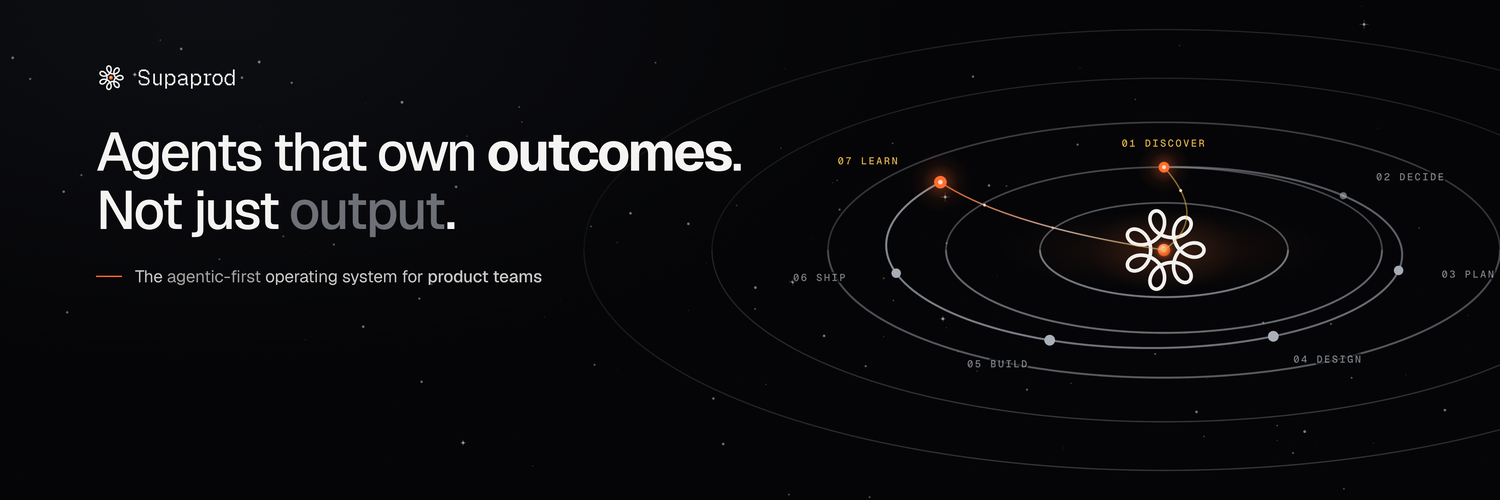
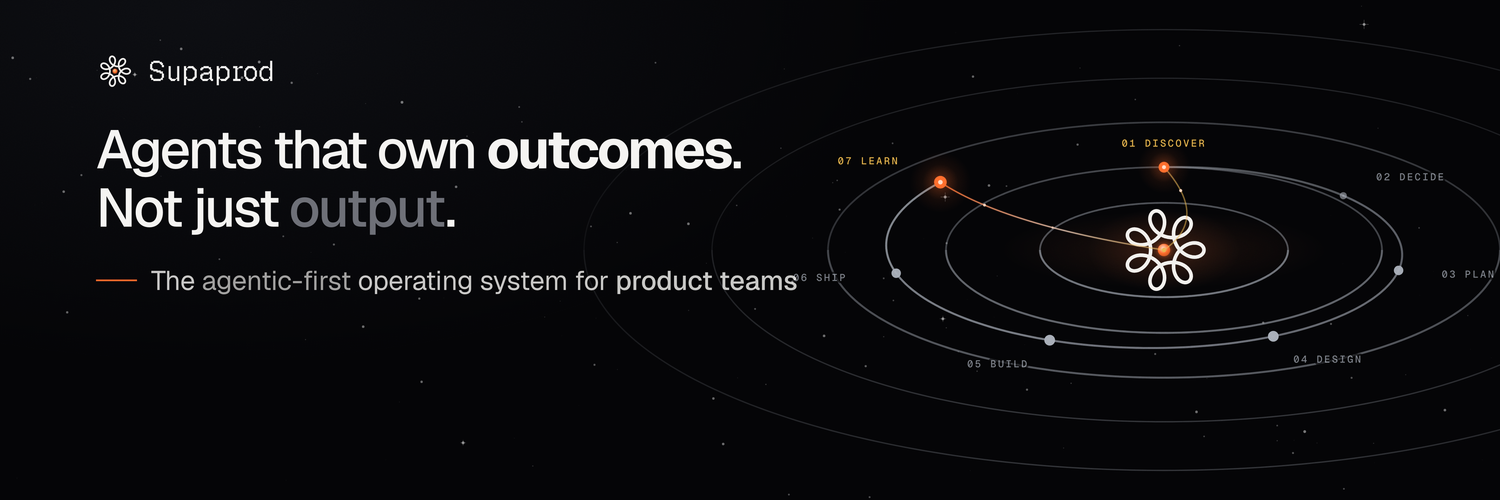
A third cover variant, and a stroke that was doing emphasis it was not asked to do
Founder direction across several passes, each one recorded in the source next
to the value it set:

- "Use the word Agents" -- the subject returns. B had dropped it because
  LinkedIn prints the company name beneath the cover, but the agentic framing
  is worth the seven characters.
- "Try the Geist Pixel font to highlight build, ship and learns, all 3 equal."
  Done, and it did NOT work on its own: Pixel is narrower and lighter in stroke
  than Geist Sans, so at render size the verbs sat quieter than the text around
  them. Marked as different, not as important.
- "Increase the weight and change the colour to ember." font-weight cannot do
  it. The kit ships one Pixel face with no bold, so 700 would be synthetic bold,
  which smears a squared-terminal face. -webkit-text-stroke adds even thickness
  instead.
- "Isn't it too much thickening? If you are giving colour, what is the purpose
  of thickening?" He was right. 0.045em was roughly double the optical deficit
  and stacked a third emphasis lever on words that already had colour and a
  typeface change. Now 0.02em, which is parity and not emphasis: it stops the
  face reading thin and does nothing else.
- "Highlight Agents not with colour, just more whitish and thickening." Two
  jobs, two devices: ember marks the three stages of the loop, brightness marks
  who performs them. Neither borrows the other's signal.

Three variants now ship and none replaces another, per his standing rule that a
[…]

diff --git a/docs/growth/branding/generate-banners.ts b/docs/growth/branding/generate-banners.ts
@@ -189,13 +189,13 @@ const SAFE_L = 0.17;
  */
 function banner(w: number, h: number, id: string) {
   const s = h / 500;
-  // cx moved from w-336 to w-320 on 2026-08-07. The category line grew (see the
-  // note on its size below) and at 27px it runs to x=839, which was inside the
-  // old leftmost station label at x=906. Sixteen pixels of instrument buys the
-  // sentence its gutter back. The rightmost label still lands at ~1478, inside
-  // the 1500 edge, so nothing new is clipped.
+  // cx STAYS at w-336. It was briefly moved to w-320 on 2026-08-07 to give the
+  // enlarged category line more room, and that was unnecessary and harmful: the
+  // category ends at x=797 and the leftmost station label starts at x=906, so
+  // the gutter was already 109px. Moving the instrument right pushed "03 PLAN"
+  // off the 1500 edge. Measure before you move things.
   const o: Orr = {
-    cx: w - 320 * s,
+    cx: w - 336 * s,
     cy: h * 0.5,
     k: 0.38,
     shells: [124 * s, 218 * s, 336 * s, 452 * s, 580 * s],
@@ -227,9 +227,15 @@ function banner(w: number, h: number, id: string) {
 
            Mobile stays a known compromise. X mobile crops ~13% per side and
            renders near 390px, so nothing survives at full size there; that is
-           what the `-safe` variants were for and the founder rejected them
+           what the "-safe" variants were for and the founder rejected them
            2026-08-06 for shrinking the type. Desktop is the surface being fixed
-           here, deliberately. -->
+           here, deliberately.
+
+           NOTE TO WHOEVER EDITS THIS COMMENT NEXT: no backticks in here. This
+           block lives inside a template literal, so a backtick opens a nested
+           expression and the whole function stops parsing. It happened twice on
+           2026-08-07, once here and once in linkedinCover, and the second one
+           got committed before a full render caught it. -->
       ${lockup(38 * s, 28 * s, id + "lk")}
       <div style="margin-top:${30 * s}px;font-size:${54 * s}px;line-height:${LEAD};
           font-weight:500;letter-spacing:-.042em;color:${P.bone};white-space:nowrap">${HOOK}</div>
@@ -509,6 +515,94 @@ const SPINE_BLOCK = (D: number) => `
       line-height:${LEAD};font-weight:500;letter-spacing:-.042em;color:${P.bone};
       white-space:nowrap">Knows what to build. Ships it.<br>${hi("Learns what worked")}.</div>`;
 
+/**
+ * VARIANT C. Founder direction 2026-08-07, after seeing B:
+ * "use the word Agents, and for the keywords try the Geist Pixel font to
+ *  highlight those 3 areas, build, ship and learns. All 3 need equal importance
+ *  and white is good."
+ *
+ * Three departures from the house rules, all deliberate and all his call:
+ *
+ *   SUBJECT RETURNS. B dropped "Agents" because LinkedIn supplies the subject
+ *   beneath the cover. He wants it back, and it does buy the sentence its
+ *   agentic-first framing rather than leaving it a list of verbs.
+ *
+ *   PIXEL AS EMPHASIS. The lockup docblock says Pixel "appears HERE and nowhere
+ *   else: one Pixel word per asset". This asset carries no lockup, so nothing
+ *   competes, but three Pixel words is still a departure from that rule and is
+ *   recorded as one rather than quietly done.
+ *
+ *   EQUAL WEIGHT, NO DIM. The ratified system is one hero word at 700 and one
+ *   word dimmed. Here all three verbs are peers, because they are three stages
+ *   of one loop and ranking them would misrepresent the product. Emphasis comes
+ *   from the typeface switch alone, not from weight or colour.
+ *
+ * Pixel runs slightly smaller than Geist Sans at the same nominal size because
+ * its square terminals fill more of the em box, so the spans are set at 0.94 to
+ * keep the baseline rhythm even.
+ */
+/**
+ * THICKENED WITH A STROKE, NOT WITH font-weight. Founder call 2026-08-07 after
+ * seeing the first pass: "it's not coming out highlighted, increase the weight
+ * of the font and change the colour to ember."
+ *
+ * He is right that the typeface switch alone did not read as emphasis. Geist
+ * Pixel is narrower and lighter in stroke than Geist Sans, so at render size the
+ * verbs sat QUIETER than the text around them, which is the opposite of a
+ * highlight.
+ *
+ * font-weight cannot fix it. The kit ships exactly one Pixel face,
+ * GeistPixel-Square.woff2, with no bold, so `font-weight:700` would trigger
+ * SYNTHETIC bold. A browser fakes that by smearing the glyph horizontally, and
+ * on a squared-terminal pixel face that reads as a rendering fault rather than
+ * as weight, which is precisely the failure mode the lockup docblock warns
+ * about.
+ *
+ * -webkit-text-stroke adds real, even thickness on every edge instead. Sized at
+ * 0.02em, which is OPTICAL PARITY and not emphasis: the Pixel stem is about
+ * 0.02em thinner than Geist Sans at 500, so this closes the deficit and stops
+ * there. It was briefly 0.045em, and the founder was right to call that too
+ * much -- at double the deficit it stacked a third emphasis lever on words that
+ * already had colour and a typeface change. Ember does the highlighting; the
+ * stroke only stops the face reading thin.
+ *
+ * Ember is the accent the brand already owns, and it is what the tick above the
+ * headline is drawn in, so the three verbs now rhyme with it. Note this is EMBER
+ * and not gold: the file rule is that gold is the mark's core bead and a caution
+ * accent, never a type colour.
+ */
+const pixelWord = (t: string, D: number) => {
+  const size = 21.5 * D;
+  return (
+    `<span class="pixel" style="font-size:${size.toFixed(0)}px;color:${P.ember};` +
+    `font-weight:400;letter-spacing:.005em;` +
+    `-webkit-text-stroke:${(size * 0.02).toFixed(1)}px ${P.ember}">${t}</span>`
+  );
+};
+
+/**
+ * "Agents" carries a little weight of its own. Founder call 2026-08-07:
+ * "highlight Agents not with colour, but just a little more whitish and
+ *  thickening, only the Agents word, and the font stays the same."
+ *
+ * That is the right instinct and it keeps the hierarchy legible: ember marks the
+ * three stages of the loop, and a brightness lift marks WHO does them. Two
+ * different jobs, so two different devices, and neither borrows the other's.
+ * Using colour here as well would have flattened them into one undifferentiated
+ * band of emphasis.
+ *
+ * The lift is small on purpose. P.bone is #F5F4F2, so pure white is only a few
+ * points brighter; combined with 700 against the surrounding 500 it reads as
+ * a subject being named rather than as a second highlight competing with ember.
+ */
+const agentsWord = `<span style="color:#FFFFFF;font-weight:700">Agents</span>`;
+
+const PIXEL_BLOCK = (D: number) => `
+  <div style="width:${(34 * D).toFixed(0)}px;height:${(2.6 * D).toFixed(1)}px;background:${P.ember}"></div>
+  <div style="margin-top:${(15 * D).toFixed(0)}px;font-size:${(20 * D).toFixed(0)}px;
+      line-height:${LEAD};font-weight:500;letter-spacing:-.042em;color:${P.bone};
+      white-space:nowrap">${agentsWord} that know what to ${pixelWord("build", D)},<br>${pixelWord("ship", D)} it, and ${pixelWord("learn", D)} what worked.</div>`;
+
 function linkedinCover(
   w: number,
   h: number,
@@ -707,10 +801,17 @@ const SPECS: {
     jpeg: true,
   },
   {
-    base: "linkedin-cover",
+    base: "linkedin-cover-spine",
     w: 4200,
     h: 700,
     fn: (i) => linkedinCover(4200, 700, i, SPINE_BLOCK),
+    jpeg: true,
+  },
+  {
+    base: "linkedin-cover",
+    w: 4200,
+    h: 700,
+    fn: (i) => linkedinCover(4200, 700, i, PIXEL_BLOCK),
     jpeg: true,
   },
   { base: "linkedin-cover-legacy", w: 1128, h: 191, fn: (i) => strip(1128, 191, i) },
